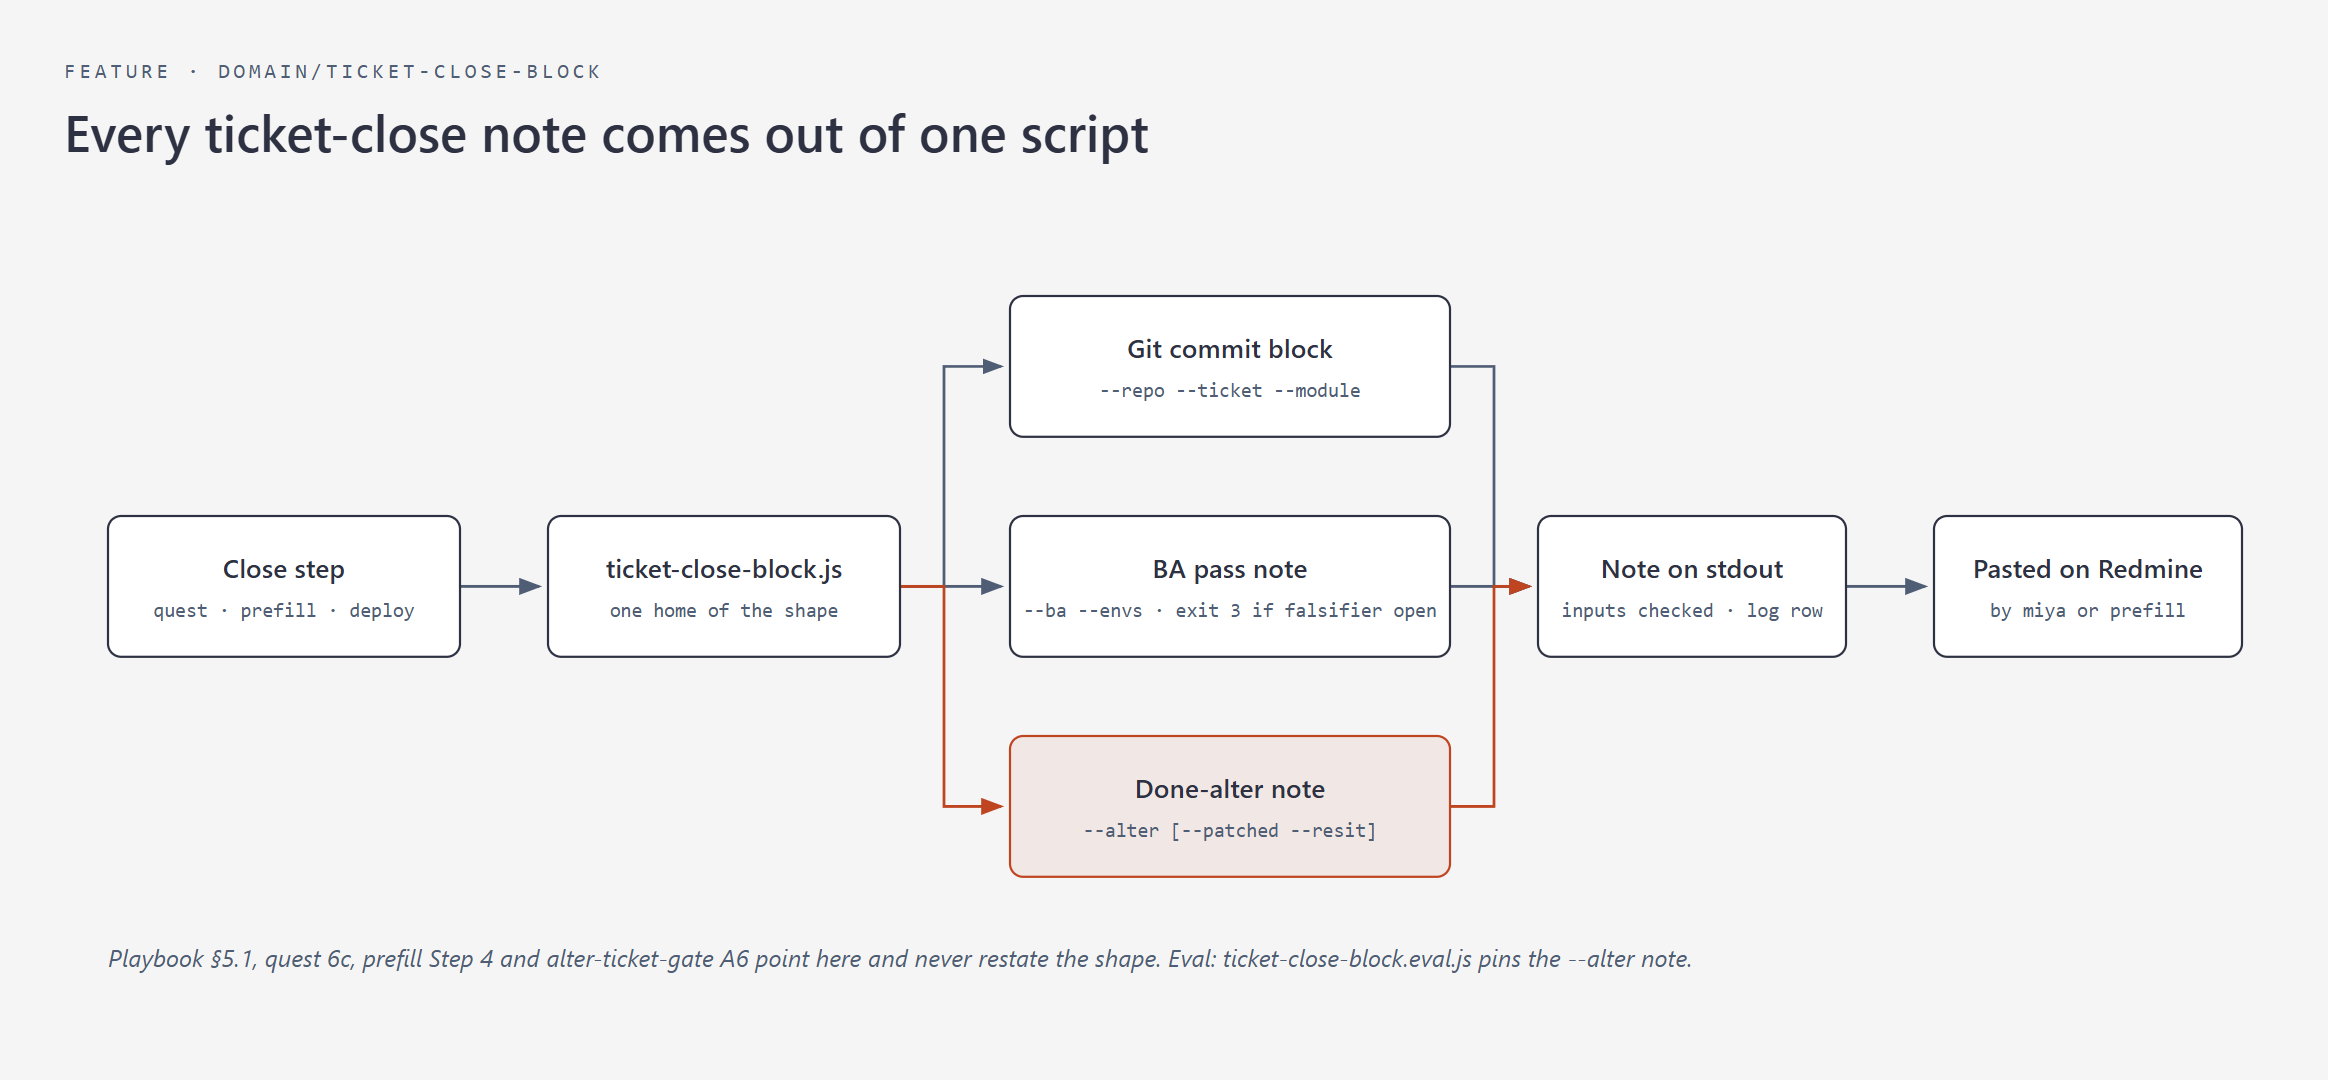
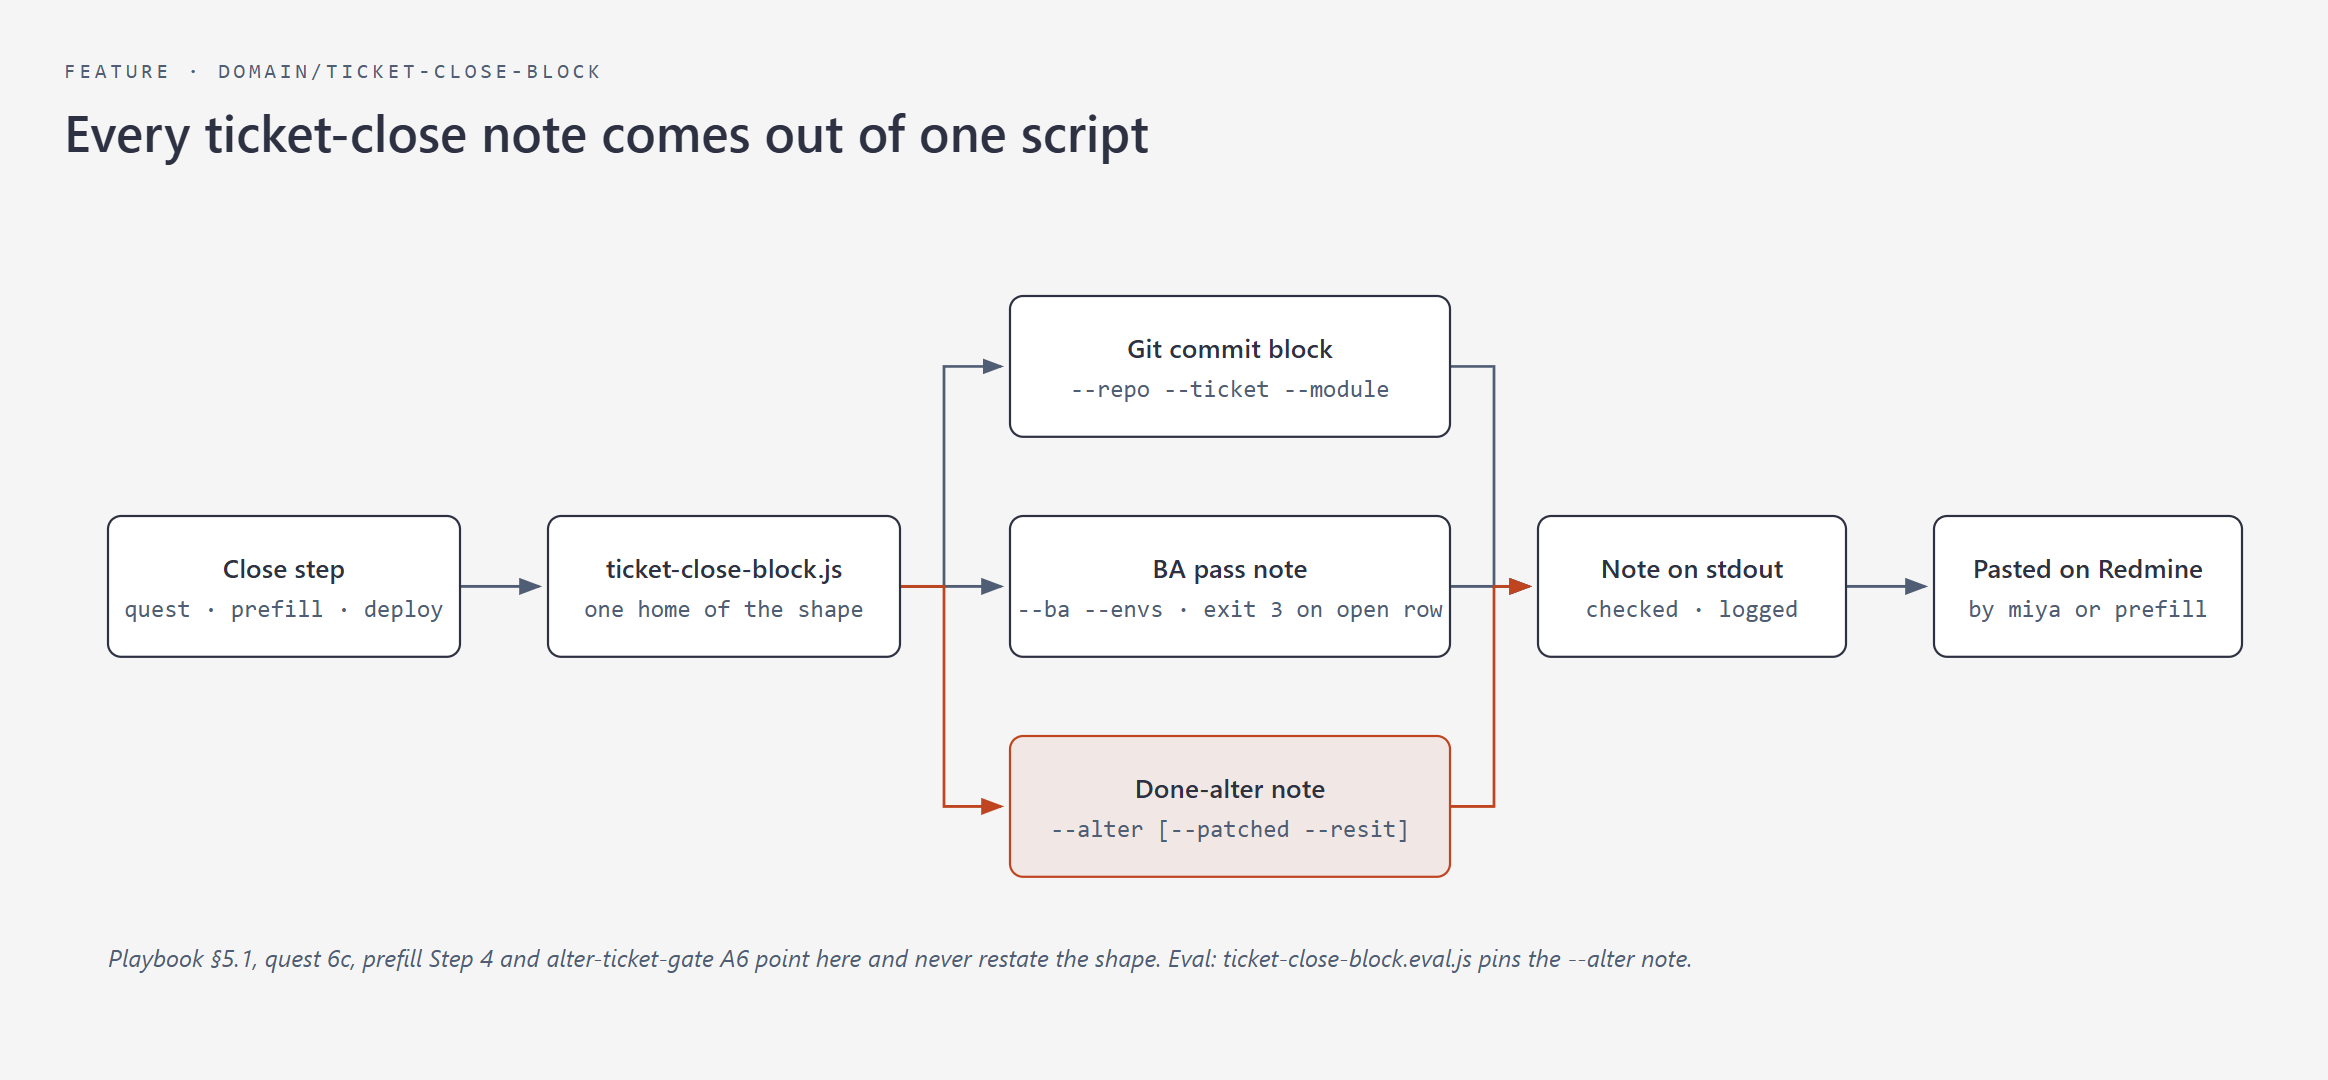
ticket-close-block diagram: labels 9px to 11px, two labels shortened to fit

diff --git a/domain/ticket-close-block/diagram.html b/domain/ticket-close-block/diagram.html
@@ -52,24 +52,24 @@
       <line x1="810" y1="172" x2="846" y2="172" stroke="#4f5d75" stroke-width="1.3" marker-end="url(#arrow)"/>
       <rect x="20" y="140" width="160" height="64" rx="6" fill="#ffffff" stroke="#2d3142" stroke-width="1"/>
       <text x="100" y="168" fill="#2d3142" font-size="12" font-weight="600" font-family="'Segoe UI', Arial, sans-serif" text-anchor="middle">Close step</text>
-      <text x="100" y="186" fill="#4f5d75" font-size="9" font-family="Consolas, monospace" text-anchor="middle">quest · prefill · deploy</text>
+      <text x="100" y="186" fill="#4f5d75" font-size="11" font-family="Consolas, monospace" text-anchor="middle">quest · prefill · deploy</text>
       <rect x="220" y="140" width="160" height="64" rx="6" fill="#ffffff" stroke="#2d3142" stroke-width="1"/>
       <text x="300" y="168" fill="#2d3142" font-size="12" font-weight="600" font-family="'Segoe UI', Arial, sans-serif" text-anchor="middle">ticket-close-block.js</text>
-      <text x="300" y="186" fill="#4f5d75" font-size="9" font-family="Consolas, monospace" text-anchor="middle">one home of the shape</text>
+      <text x="300" y="186" fill="#4f5d75" font-size="11" font-family="Consolas, monospace" text-anchor="middle">one home of the shape</text>
       <rect x="430" y="40" width="200" height="64" rx="6" fill="#ffffff" stroke="#2d3142" stroke-width="1"/>
       <text x="530" y="68" fill="#2d3142" font-size="12" font-weight="600" font-family="'Segoe UI', Arial, sans-serif" text-anchor="middle">Git commit block</text>
-      <text x="530" y="86" fill="#4f5d75" font-size="9" font-family="Consolas, monospace" text-anchor="middle">--repo --ticket --module</text>
+      <text x="530" y="86" fill="#4f5d75" font-size="11" font-family="Consolas, monospace" text-anchor="middle">--repo --ticket --module</text>
       <rect x="430" y="140" width="200" height="64" rx="6" fill="#ffffff" stroke="#2d3142" stroke-width="1"/>
       <text x="530" y="168" fill="#2d3142" font-size="12" font-weight="600" font-family="'Segoe UI', Arial, sans-serif" text-anchor="middle">BA pass note</text>
-      <text x="530" y="186" fill="#4f5d75" font-size="9" font-family="Consolas, monospace" text-anchor="middle">--ba --envs · exit 3 if falsifier open</text>
+      <text x="530" y="186" fill="#4f5d75" font-size="11" font-family="Consolas, monospace" text-anchor="middle">--ba --envs · exit 3 on open row</text>
       <rect x="430" y="240" width="200" height="64" rx="6" fill="rgba(191,69,32,0.08)" stroke="#bf4520" stroke-width="1"/>
       <text x="530" y="268" fill="#2d3142" font-size="12" font-weight="600" font-family="'Segoe UI', Arial, sans-serif" text-anchor="middle">Done-alter note</text>
-      <text x="530" y="286" fill="#4f5d75" font-size="9" font-family="Consolas, monospace" text-anchor="middle">--alter [--patched --resit]</text>
+      <text x="530" y="286" fill="#4f5d75" font-size="11" font-family="Consolas, monospace" text-anchor="middle">--alter [--patched --resit]</text>
       <rect x="670" y="140" width="140" height="64" rx="6" fill="#ffffff" stroke="#2d3142" stroke-width="1"/>
       <text x="740" y="168" fill="#2d3142" font-size="12" font-weight="600" font-family="'Segoe UI', Arial, sans-serif" text-anchor="middle">Note on stdout</text>
-      <text x="740" y="186" fill="#4f5d75" font-size="9" font-family="Consolas, monospace" text-anchor="middle">inputs checked · log row</text>
+      <text x="740" y="186" fill="#4f5d75" font-size="11" font-family="Consolas, monospace" text-anchor="middle">checked · logged</text>
       <rect x="850" y="140" width="140" height="64" rx="6" fill="#ffffff" stroke="#2d3142" stroke-width="1"/>
       <text x="920" y="168" fill="#2d3142" font-size="12" font-weight="600" font-family="'Segoe UI', Arial, sans-serif" text-anchor="middle">Pasted on Redmine</text>
-      <text x="920" y="186" fill="#4f5d75" font-size="9" font-family="Consolas, monospace" text-anchor="middle">by miya or prefill</text>
+      <text x="920" y="186" fill="#4f5d75" font-size="11" font-family="Consolas, monospace" text-anchor="middle">by miya or prefill</text>
       <text x="20" y="345" fill="#4f5d75" font-size="11" font-style="italic" font-family="'Segoe UI', Arial, sans-serif">Playbook §5.1, quest 6c, prefill Step 4 and alter-ticket-gate A6 point here and never restate the shape. Eval: ticket-close-block.eval.js pins the --alter note.</text>
     </svg></div></div></body></html>
